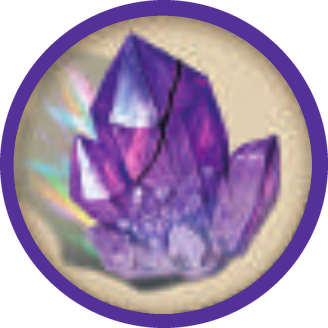
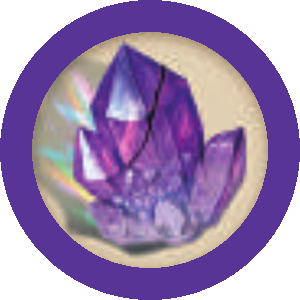
Make the classic board plain wood, fix the glass token rim and scroll spacing, and add a temporary card mapping screen.

diff --git a/src/components/CardMapping.jsx b/src/components/CardMapping.jsx
@@ -1,0 +1,53 @@
+import { Dialog, DialogContent, DialogDescription, DialogHeader, DialogTitle } from '@/components/ui/dialog';
+import { createGame } from '../engine/engine.js';
+import { JewelCard, CfCard, RoyalCard } from './Cards.jsx';
+import { TokenArt } from './Art.jsx';
+
+// Temporary: shows every original (classic) piece beside the modern piece that stands in for it.
+const S = createGame(true, 1, 0);
+const JEWELS = [0, 1, 2].flatMap((l) => [...S.pyr[l], ...S.decks[l]]);
+const CFS = [...S.crow, ...S.cdeck];
+const ROYALS = [...S.royals, ...S.rdeck];
+const TOKENS = ['blue', 'white', 'green', 'black', 'red', 'pearl', 'glass', 'gold'];
+
+const Pair = ({ label, children }) => (
+  <div className="flex flex-col items-center gap-1 rounded-lg border p-2 text-center text-[11px] text-muted-foreground">
+    <div className="flex items-center gap-2">{children}</div>
+    <span>{label}</span>
+  </div>
+);
+const Small = ({ children }) => <div className="compact-cards" style={{ '--z': 0.62, zoom: 0.62 }}>{children}</div>;
+
+const costText = (c) => Object.entries(c.cost).map(([k, n]) => `${n} ${k}`).join(', ');
+const jewelLabel = (c) => `L${c.level} · ${c.pts} pt${c.crowns ? ` · ${c.crowns} crown` : ''} · ${c.bonus}${c.ability ? ` · ${c.ability}` : ''} · ${costText(c)}`;
+
+export default function CardMapping({ onClose }) {
+  const Section = ({ title, children }) => (
+    <section className="space-y-2">
+      <h3 className="text-sm font-bold uppercase tracking-widest">{title}</h3>
+      <div className="flex flex-wrap gap-2">{children}</div>
+    </section>
+  );
+  return (
+    <Dialog open onOpenChange={(o) => !o && onClose()}>
+      <DialogContent className="max-h-[92vh] max-w-[95vw] overflow-y-auto sm:max-w-6xl">
+        <DialogHeader>
+          <DialogTitle>Card mapping</DialogTitle>
+          <DialogDescription>Each pair is the original picture on the left and the modern card or token that replaces it on the right. Temporary.</DialogDescription>
+        </DialogHeader>
+        <Section title="Tokens">
+          {TOKENS.map((k) => <Pair key={k} label={k}><TokenArt kind={k} size={56} look="classic" /><TokenArt kind={k} size={56} look="modern" /></Pair>)}
+        </Section>
+        <Section title={`Royal cards (${ROYALS.length})`}>
+          {ROYALS.map((r) => <Pair key={r.id} label={`${r.pts} pt · ${r.ab ?? 'no ability'}`}><Small><RoyalCard card={r} look="classic" /></Small><Small><RoyalCard card={r} look="modern" /></Small></Pair>)}
+        </Section>
+        <Section title={`Counterfeiter cards (${CFS.length})`}>
+          {CFS.map((c) => <Pair key={c.id} label={`${c.ab}${c.rc ? ` ${c.rc}` : ''} · ${costText(c)}`}><Small><CfCard card={c} look="classic" /></Small><Small><CfCard card={c} look="modern" /></Small></Pair>)}
+        </Section>
+        <Section title={`Development cards (${JEWELS.length})`}>
+          {JEWELS.map((c) => <Pair key={c.id} label={jewelLabel(c)}><Small><JewelCard card={c} look="classic" /></Small><Small><JewelCard card={c} look="modern" /></Small></Pair>)}
+        </Section>
+      </DialogContent>
+    </Dialog>
+  );
+}

diff --git a/src/components/Cards.jsx b/src/components/Cards.jsx
@@ -63,8 +63,9 @@ function centreArt(card) {
   return gem ? `/modern/jewelry/${gem}/${pickFrom(card, PIECES)}.png` : null;
 }
 
-export function JewelCard({ card, onClick, selected, afford }) {
-  const look = useLook();
+export function JewelCard({ card, onClick, selected, afford, look: forced }) {
+  const current = useLook();
+  const look = forced ?? current;
   const file = look === 'classic' ? classicCardFile(card) : null;
   if (file) return <PrintedCard card={card} file={file} onClick={onClick} selected={selected} afford={afford} />;
   const wild = card.bonus === 'wild';
@@ -100,8 +101,9 @@ export function JewelCard({ card, onClick, selected, afford }) {
   );
 }
 
-export function CfCard({ card, onClick, selected, afford }) {
-  const look = useLook();
+export function CfCard({ card, onClick, selected, afford, look: forced }) {
+  const current = useLook();
+  const look = forced ?? current;
   const piece = `/modern/jewelry/amethyst/${pickFrom(card, PIECES)}.png`;
   const file = look === 'classic' ? classicCardFile(card) : null;
   if (file) return <PrintedCard card={card} file={file} onClick={onClick} selected={selected} afford={afford} />;
@@ -128,8 +130,9 @@ export function CfCard({ card, onClick, selected, afford }) {
 // The base royals each have a picture of their own; the expansion royals keep the crown.
 const ROYAL_ART = { steal: 'cloak', privilege: 'beret', extra: 'sunhat', none: 'necklace', rreserve: 'tassel', rgold: 'scarf', w9c: 'butterfly', rcounter: 'cloak-blue', rtake4: 'snake', rbag2: 'hairclip', rtake3: 'turban' };
 
-export function RoyalCard({ card, onClick, glow }) {
-  const look = useLook();
+export function RoyalCard({ card, onClick, glow, look: forced }) {
+  const current = useLook();
+  const look = forced ?? current;
   const file = look === 'classic' ? classicCardFile(card) : null;
   if (file) return <PrintedCard card={card} file={file} onClick={onClick} afford={glow} />;
   const art = ROYAL_ART[card.ab ?? 'none'] ?? null;

diff --git a/src/styles.css b/src/styles.css
@@ -211,7 +211,11 @@ html[data-look=classic] .back.lv3 { background: url(/classic/backs/level-3.jpg) 
 html[data-look=classic] .back.lvroyal { background: url(/classic/backs/royal.png) center / 100% 100% no-repeat; border-color: transparent; }
 
 /* original look: the printed board, drawn with the same square positions as the modern one */
-html[data-look=classic] .stage .board-wrap { background-image: url(/classic/board/4-buttons.png); }
-html[data-look=classic] .stage .board-wrap.three { background-image: url(/classic/board/3-buttons.png); }
-html[data-look=classic] .stage .board-wrap.two { background-image: url(/classic/board/2-buttons.png); }
 html[data-look=classic] .stage .board-wrap { border-radius: 10px; }
+
+/* original look: plain wood under the squares, with the buttons drawn as their own cream pads, and scrolls with room between them */
+html[data-look=classic] .stage .board-wrap, html[data-look=classic] .stage .board-wrap.two, html[data-look=classic] .stage .board-wrap.three { background-image: url(/classic/board/plain.png); }
+html[data-look=classic] .woodbtn { background: #e1cfb0; border: 2px solid #8f6c50; color: #3a2616; }
+html[data-look=classic] .woodbtn.go { background: #e0b64a; }
+html[data-look=classic] .boardscrolls { gap: calc(var(--cell) * 0.12); }
+html[data-look=classic] .woodbtn:disabled { opacity: 0.6; }

diff --git a/src/components/GameSettings.jsx b/src/components/GameSettings.jsx
@@ -1,4 +1,5 @@
 import { useState } from 'react';
+import CardMapping from './CardMapping.jsx';
 import { Button } from '@/components/ui/button';
 import { Dialog, DialogContent, DialogDescription, DialogFooter, DialogHeader, DialogTitle } from '@/components/ui/dialog';
 import { Switch } from '@/components/ui/switch';
@@ -17,6 +18,7 @@ export default function GameSettings({ onClose, inGame = false, current, locked 
   const shown = inGame ? current : stored;
   const classic = look === 'classic';
   const [pending, setPending] = useState(null);
+  const [mapping, setMapping] = useState(false);
 
   const rows = [
     { key: 'exp', title: 'Counterfeiters expansion', text: 'Adds glassware tokens, counterfeiter cards and more royals.', game: true },
@@ -67,6 +69,8 @@ export default function GameSettings({ onClose, inGame = false, current, locked 
               ))}
             </div>
             {children}
+            <Button variant="outline" className="w-full" onClick={() => setMapping(true)}>See card mapping</Button>
+            {mapping && <CardMapping onClose={() => setMapping(false)} />}
             <DialogFooter><Button onClick={onClose}>Done</Button></DialogFooter>
           </>
         )}

diff --git a/src/components/Art.jsx b/src/components/Art.jsx
@@ -23,8 +23,9 @@ const RIM = { blue: '#3b82f6', white: '#e4ebf5', green: '#22c55e', black: '#7b84
 const DISC = { blue: '#173a82', white: '#6c7d96', green: '#0f5a31', black: '#2b313d', red: '#7d1622', pearl: '#7a5a92', glass: '#4a1d82', gold: '#8a6205' };
 
 /** A flat token: a vibrant rim, a dimmed disc of the same colour, and the gem on top. No gloss and no shadow. */
-export function TokenArt({ kind, size = 52 }) {
-  const look = useLook();
+export function TokenArt({ kind, size = 52, look: forced }) {
+  const current = useLook();
+  const look = forced ?? current;
   if (look === 'classic' && CLASSIC_TOKEN[kind]) {
     return <img className="tokart classic" src={`/classic/tokens/${CLASSIC_TOKEN[kind]}`} width={size} height={size} alt="" draggable={false} style={{ width: size, height: size, objectFit: 'contain' }} />;
   }
